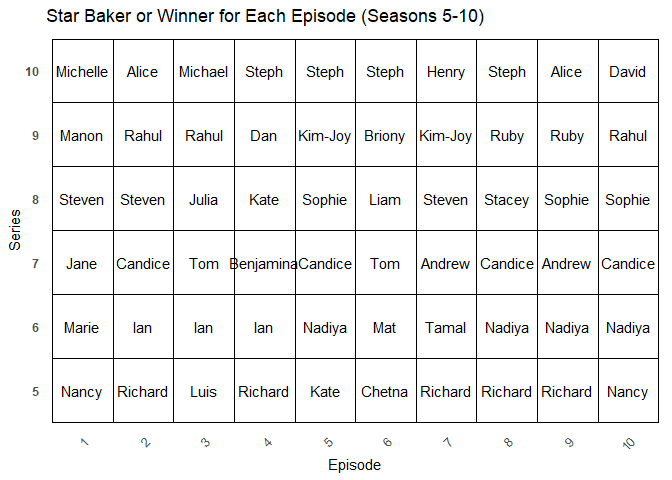
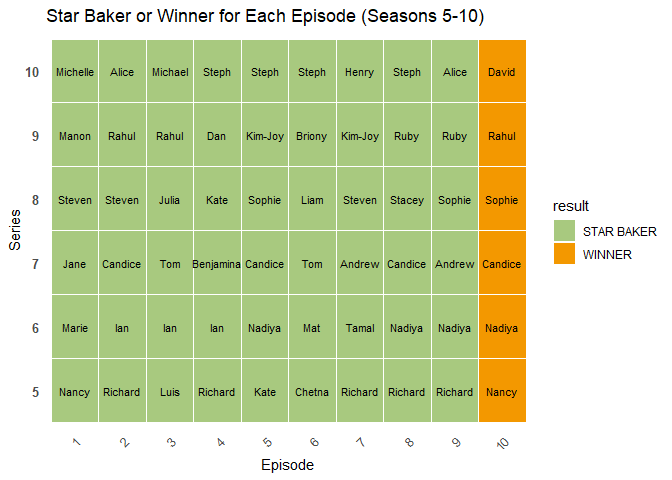
fixes on 'Jo', and other minor fixes on format and aesthetics.

diff --git a/p8105_hw2_xx2485.md b/p8105_hw2_xx2485.md
@@ -38,10 +38,13 @@ This dataset contains the information for every entrance of every subway
 station of NYC. I chose a number of categories of data from the original
 dataset, including line, station name, station latitude/longitude,
 route, entry, vending, entrance type, and ADA compliance. The dimension
-of the dataset after cleaning is 1868 rows x 19 columns. The data is not
-quite tidy because `vending` variable is still a YES/NO character
-variable, the route variable is difficult to understand, and each
-entrance of the same station is not given a proper way to identify them.
+of the dataset after cleaning is 1868 rows x 19 columns. Column names
+are renamed in a way to make them easier for coding.
+
+The data is not quite tidy because `vending` variable is still a YES/NO
+character variable, the route variable is difficult to understand, and
+each entrance of the same station is not given a proper way to identify
+them.
 
 **Count distinct stations by both station name and line**
 
@@ -227,10 +230,103 @@ print(combined_trash_wheel_df)
 The `combined_trash_wheel_df` dataframe combines the data from three
 different trash wheels of Healthy Harbor company from the year 2014 to
 2023, if data is available. The data includes the number of dumpster,
-date, weight, volumes, types of trash collected, and homes powered. The
-combined dataset has 845 rows, with 584 in the Mr. Trash Wheel dataset,
-106 in the Professor Trash Wheel dataset, and 155 in the Gwynnda Trash
-Wheel dataset.
+date, weight, volumes, types of trash collected, and homes powered.
+
+**Mr. Trash Wheel**:
+
+- The dataset contains 584 observations and 15 categories for data. The
+  data was collacted from 2014 to 2023.
+
+- The weight of trash collected ranges from 0.78 tons to 5.62 tons, with
+  an average of 3.21 tons per dumpster. Cumulatively, Mr. Trash Wheel
+  has collected approximately 1875.7 tons of trash.
+
+- The volume ranges from 7 to 20 cubic yards, averaging 15.3 cubic yards
+  per dumpster, totaling approximately 8935.2 cubic yards of trash.
+
+- Plastic Bottles: An average of 1979 bottles per dumpster, with a
+  cumulative total of 1156696 plastic bottles.
+
+- Polystyrene: An average of 1558 units per dumpster, totaling 910672
+  units collected.
+
+- Cigarette Butts: Each dumpster collects an average of 19833 butts,
+  summing up to 11587312 cigarette butts.
+
+- Glass Bottles: An average of 21.62 bottles per dumpster, resulting in
+  a total of 12623 glass bottles.
+
+- Plastic Bags: An average of 916.8 bags per dumpster, amounting to
+  535347 plastic bags.
+
+- Wrappers: An average of 1416 wrappers per dumpster, with a cumulative
+  total of 827744 wrappers.
+
+- Each dumpster powers an average of 47.28 homes, with a cumulative
+  total of 27606.72 homes powered by the collected trash.
+
+**Professor Trash Wheel**:
+
+- The dataset contains 106 observations and 14 categories for data. The
+  data was collected from 2017 to 2023.
+
+- The weight of trash collected ranges from 0.61 tons to 3.72 tons, with
+  an average of 2.04 tons per dumpster. Cumulatively, Professor Trash
+  Wheel has collected approximately 216.26 tons of trash.
+
+- The volume ranges from 6 to 18 cubic yards, averaging 14.58 cubic
+  yards per dumpster, totaling approximately 1546 cubic yards of trash.
+
+- Plastic Bottles: An average of 5244 bottles per dumpster, with a
+  cumulative total of 550646 plastic bottles.
+
+- Polystyrene: An average of 4194 units per dumpster, totaling 440405
+  units collected.
+
+- Cigarette Butts: Each dumpster collects an average of 11531 butts,
+  summing up to 1210778 cigarette butts.
+
+- Glass Bottles: An average of 16.81 bottles per dumpster, resulting in
+  a total of 1765 glass bottles.
+
+- Plastic Bags: An average of 2433 bags per dumpster, amounting to
+  255514 plastic bags.
+
+- Wrappers: An average of 7695 wrappers per dumpster, with a cumulative
+  total of 807982 wrappers.
+
+- Each dumpster powers an average of 34 homes, with a cumulative total
+  of 3604.33 homes powered by the collected trash.
+
+**Gwynnda the Good Wheel of the West**:
+
+- The dataset contains 155 observations and 11 categories for data. The
+  data was collected from 2021 to 2023.
+
+- The weight of trash collected ranges from 0.77 tons to 4.18 tons, with
+  an average of 2.91 tons per dumpster. Cumulatively, Gwynnda has
+  collected approximately 451.67 tons of trash.
+
+- The volume ranges from 5 to 15 cubic yards, averaging 14.9 cubic yards
+  per dumpster, totaling approximately 2309.5 cubic yards of trash.
+
+- Plastic Bottles: An average of 1495 bottles per dumpster, with a
+  cumulative total of 231725 plastic bottles.
+
+- Polystyrene: An average of 170.7 units per dumpster, totaling 26458.5
+  units collected.
+
+- Cigarette Butts: Each dumpster collects an average of 2368 butts,
+  summing up to 367040 cigarette butts.
+
+- Plastic Bags: An average of 788.8 bags per dumpster, amounting to
+  122264 plastic bags.
+
+- Wrappers: An average of 1554 wrappers per dumpster, with a cumulative
+  total of 214470 wrappers.
+
+- Each dumpster powers an average of 48.52 homes, with a cumulative
+  total of 7510.6 homes powered by the collected trash.
 
 **Calculate the total weight of trash collected by Professor Trash
 Wheel**
@@ -278,58 +374,19 @@ is 18120.
 ``` r
 # Import data starting from the 4th row
 results <- read_csv("data/gbb_datasets/results.csv", 
-                 skip = 2)  # Skip the first 3 rows
-```
+                 skip = 2) %>%   # Skip the first 3 rows
+   mutate(baker = ifelse(baker == "Joanne", "Jo", baker)) # Joanne is the same person as Jo
 
-    ## Rows: 1136 Columns: 5
-    ## ── Column specification ────────────────────────────────────────────────────────
-    ## Delimiter: ","
-    ## chr (2): baker, result
-    ## dbl (3): series, episode, technical
-    ## 
-    ## ℹ Use `spec()` to retrieve the full column specification for this data.
-    ## ℹ Specify the column types or set `show_col_types = FALSE` to quiet this message.
-
-``` r
 bakes <- read_csv("data/gbb_datasets/bakes.csv") %>% 
-  janitor::clean_names()
-```
+  janitor::clean_names() %>% 
+  mutate(baker = ifelse(baker == "\"Jo\"", "Jo", baker))  # cleaning all `"Jo"` entries and prepare it for the next merge 
 
-    ## Rows: 548 Columns: 5
-    ## ── Column specification ────────────────────────────────────────────────────────
-    ## Delimiter: ","
-    ## chr (3): Baker, Signature Bake, Show Stopper
-    ## dbl (2): Series, Episode
-    ## 
-    ## ℹ Use `spec()` to retrieve the full column specification for this data.
-    ## ℹ Specify the column types or set `show_col_types = FALSE` to quiet this message.
-
-``` r
 bakers <- read_csv("data/gbb_datasets/bakers.csv") %>% 
   janitor::clean_names()
-```
 
-    ## Rows: 120 Columns: 5
-    ## ── Column specification ────────────────────────────────────────────────────────
-    ## Delimiter: ","
-    ## chr (3): Baker Name, Baker Occupation, Hometown
-    ## dbl (2): Series, Baker Age
-    ## 
-    ## ℹ Use `spec()` to retrieve the full column specification for this data.
-    ## ℹ Specify the column types or set `show_col_types = FALSE` to quiet this message.
-
-``` r
 viewers <- read_csv("data/gbb_datasets/viewers.csv") %>% 
   janitor::clean_names()
 ```
-
-    ## Rows: 10 Columns: 11
-    ## ── Column specification ────────────────────────────────────────────────────────
-    ## Delimiter: ","
-    ## dbl (11): Episode, Series 1, Series 2, Series 3, Series 4, Series 5, Series ...
-    ## 
-    ## ℹ Use `spec()` to retrieve the full column specification for this data.
-    ## ℹ Specify the column types or set `show_col_types = FALSE` to quiet this message.
 
 **Preparing the data for merging**
 
@@ -352,7 +409,7 @@ viewers_long <- viewers %>%
 ``` r
 # Merge the two dataframes `results` and `bakes based on the three columns
 merged_data <- merge(results, bakes, by = c("series", "episode", "baker"), all = TRUE) %>% # merge datasheets 'results' and 'bakes'
-  mutate(baker = ifelse(baker == "\"Jo\"", "Jo", baker)) %>% # cleaning all `"Jo"` entries and prepare it for the next merge 
+ 
   left_join(bakers, by = c("baker" = "first_name", "series" = "series")) %>% # Merge `merged_data` with `bakers` based on `baker` and `series`
   left_join(viewers_long, by = c("series", "episode")) # Merge the reshaped `viewers_long` with `final_data` based on `series` and `episode`
 ```
@@ -360,19 +417,42 @@ merged_data <- merge(results, bakes, by = c("series", "episode", "baker"), all =
 **Check for correctness across datasets using `anti_join`**
 
 ``` r
-# Find rows in `merged_data` that do not have a match in `viewers_long`
-unmatched_in_merged <- merged_data %>%
-  anti_join(viewers_long, by = c("series", "episode"))
+# Find rows in merged_data that don't match viewers_long (by series and episode)
+unmatched_in_merged_1 <- 
+  merged_data %>%  
+  anti_join(viewers_long, by = c("series", "episode"))  # Check for missing rows in viewers_long
 
-unmatched_in_merged
+# Find rows in merged_data that don't match bakers (by series and first_name)
+unmatched_in_merged_2 <- 
+  merged_data %>%  
+  anti_join(bakers, by = c("baker" = "first_name", "series"))  # Correct column name for bakers
+
+# Find rows in merged_data that don't match bakes (by series, episode, and baker)
+unmatched_in_merged_3 <- 
+  merged_data %>%  
+  anti_join(bakes, by = c("series", "episode", "baker"))  # Check for missing rows in bakes
+
+# Display the results
+dim(unmatched_in_merged_1)
 ```
 
-    ##  [1] series           episode          baker            technical       
-    ##  [5] result           signature_bake   show_stopper     baker_name      
-    ##  [9] baker_age        baker_occupation hometown         viewers         
-    ## <0 rows> (or 0-length row.names)
+    ## [1]  0 12
 
-If the output is 0 rows, it means that we have no mismatches.
+``` r
+dim(unmatched_in_merged_2)
+```
+
+    ## [1]  0 12
+
+``` r
+dim(unmatched_in_merged_3)
+```
+
+    ## [1] 588  12
+
+The merges with viewers_long and bakers were fully successful, with no
+mismatches or missing data. However, the data in `bakes` is incomplete
+or inconsistent for 588 combinations of series, episode, and baker.
 
 **Organize the variables**
 
@@ -435,20 +515,22 @@ each episode in Seasons 5 through 10**
 # Filter the dataset for seasons 5 through 10 and episodes with a "Star Baker" or winner
 star_bakers_winners <- merged_data %>%
   filter(series >= 5, series <= 10, result %in% c("STAR BAKER", "WINNER")) %>%
-  select(series, episode, baker) %>%
+  select(series, episode, baker, result) %>%
   arrange(series, episode)
 
 
 # Create a table plot using ggplot2
 ggplot(star_bakers_winners, aes(x = factor(episode), y = factor(series))) +
-  geom_tile(color = "black", fill = "white") +  # Creates the table cell rectangles
-  geom_text(aes(label = baker), size = 4, color = "black") +  # Add baker names as text
+  geom_tile(aes(fill = result), 
+            color = "white") +  # Add a tile for each episode with color based on result
+  geom_text(aes(label = baker), size = 3, color = "black") +  # Add baker names as text
+  scale_fill_manual(values = c("STAR BAKER" = "#a8c97f", "WINNER" = "#f39800")) +  # Custom color scheme 
   labs(x = "Episode", y = "Series", title = "Star Baker or Winner for Each Episode (Seasons 5-10)") +
   theme_minimal() +
   theme(
     panel.grid = element_blank(),  # Remove grid lines for a cleaner look
     axis.text.x = element_text(angle = 45, hjust = 1),  # Rotate x-axis labels for readability
-    axis.text.y = element_text(face = "bold")  # Make y-axis labels bold
+    axis.text.y = element_text(face = "bold", size = 10)  # Make y-axis labels bold
   )
 ```
 
@@ -500,6 +582,32 @@ viewers_long %>%
     ## 10      10      1   NA
 
 ``` r
+# Calculate the average viewership, accounting for NA values
+avg_viewership_by_season <- 
+  viewers_long |>
+  group_by(series) |>
+  summarise(
+    average_viewers = mean(viewers, na.rm = TRUE),
+    episodes_count = n(),
+    missing_count = sum(is.na(viewers))
+  )
+
+# Visualize the data quality and averages
+ggplot(avg_viewership_by_season, 
+       aes(x = factor(series),
+           y = average_viewers)) +
+  geom_col(fill = "#84b9cb") +
+  geom_text(aes(label = round(average_viewers, 2)),
+            vjust = -0.5, size = 3) +
+  labs(title = "Average Viewership per Season", 
+       x = "Season", 
+       y = "Average Viewers") +
+  theme_minimal()
+```
+
+![](p8105_hw2_xx2485_files/figure-gfm/unnamed-chunk-19-1.png)<!-- -->
+
+``` r
 # Calculate the average viewership for Season 1
 avg_viewership_season_1 <- viewers_long %>%
   filter(series == 1) %>%
@@ -530,3 +638,6 @@ avg_viewership_season_5
     ##   average_viewers
     ##             <dbl>
     ## 1            10.0
+
+For Season 1, the average viewership was 2.77; for Season 5, the average
+viewership was 10.0393.
